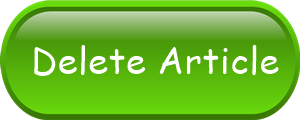
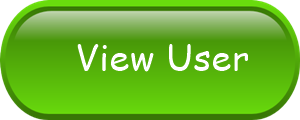
progress 29012015
view user

diff --git a/view_user.php b/view_user.php
@@ -2,7 +2,7 @@
 <?php include ("koneksi.php")?>
 <html>
 	<head>
-		<title>Edit Profile</title>
+		<title>View Profile</title>
 		<link type="text/css" rel="stylesheet" href="Css/Style.css" />
 	</head>
 	<body>
@@ -78,8 +78,7 @@
 ?>
 
 					<div id="outer_article">
-					<form action="edituser_proses.php" method="POST">
-						<input type="text" name="idku" value="<?php echo $id;?>" style="display:none;"/>
+					<form action="view_user.php" method="POST">
 						<div class="tentangUser">
 							<table width="100%">
 								<tr>
@@ -91,7 +90,7 @@
 											</tr>
 											<tr>
 												<td><b>Name</b></td>
-												<td><input type="text" name="nama" value="<?php echo $a;?>"></td>
+												<td><span><?php echo $a;?></span></td>
 											</tr>
 											<tr>
 												<td><b>Gender</b></td>
@@ -99,7 +98,7 @@
 											</tr>
 											<tr>
 												<td><b>Email</b></td>
-												<td><input type="text" name="email" value="<?php echo $c; ?>"></td>
+												<td><span><?php echo $c; ?></span></td>
 											</tr>
 											<tr>
 												<td><b>Status</b></td>
@@ -114,15 +113,14 @@
 														<b>Biography</b>
 													</td>
 													<td>
-														<textarea type ="text" name="bio" rows="10" cols="40"><?php echo $e; ?></textarea>
+														<span><?php echo $e; ?></span>
 													</td>
 												</tr>
 											</table>
 									</td>
 								</tr>
 								<tr>
-									<td><input type="submit" name="edit" value="Edit"></td>
-									<td><a href ="user.php" style="text-decoration:none"><input type="submit" name="back" value="Back"></td></a>
+									<td><a href ="user.php">Back</td></a>
 								</tr>
 							</table>
 						</div>

diff --git a/outer_kanan_user.php b/outer_kanan_user.php
@@ -35,10 +35,10 @@
 							</tr>
 							<tr>
 								<td>
-									<a href="view_writter.php?id=<?php echo htmlentities($_SESSION['idNIM']);?>"> <img src="css/images/u-e.png" width="100px" height="35px" /></a>
+									<a href="edit_user.php?id=<?php echo htmlentities($_SESSION['idNIM']) ;?>"> <img src="css/images/u-e.png" width="100px" height="35px" /></a>
 								</td>
 								<td>
-									<a href="delete_artikel.php"><img src="css/images/u-d.png" width="100px" height="35px"></img></a>
+									<a href="view_user.php?id=<?php echo htmlentities($_SESSION['idNIM']) ;?>"><img src="css/images/u-d.png" width="100px" height="35px"></img></a>
 								</td>
 							</tr>
 						</table>

diff --git a/admin.php b/admin.php
@@ -80,7 +80,16 @@
 				<!-- tengah -->
 				<div style="margin-left:20px;">
 					<h1>Welcome to Admin Page!</h1>
-					 <a href = "adduser.php" style="text-decoration:none"><input type="button" name="insert" value="Add User" /></a>
+					<table>
+						<tr>
+							<td>
+								<a href = "adduser.php" style="text-decoration:none"><input type="button" name="insert" value="Add User" /></a>
+							</td>
+							<td>
+								<a href = "index.php" style="text-decoration:none"><input type="button" name="insert" value="Log Out" /></a>
+							</td>
+						</tr>
+					</table>
 					<br />
 					<br />
 	<table border = "1">
